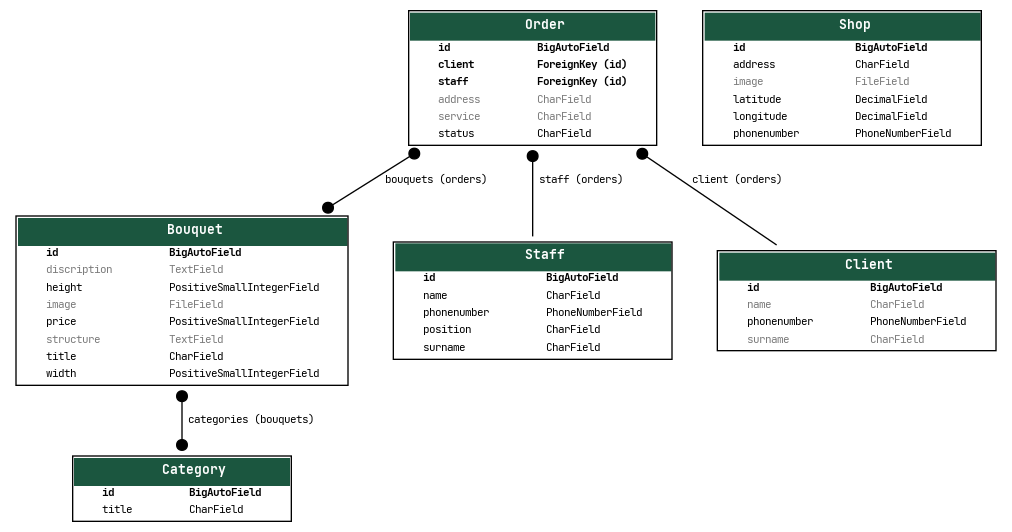
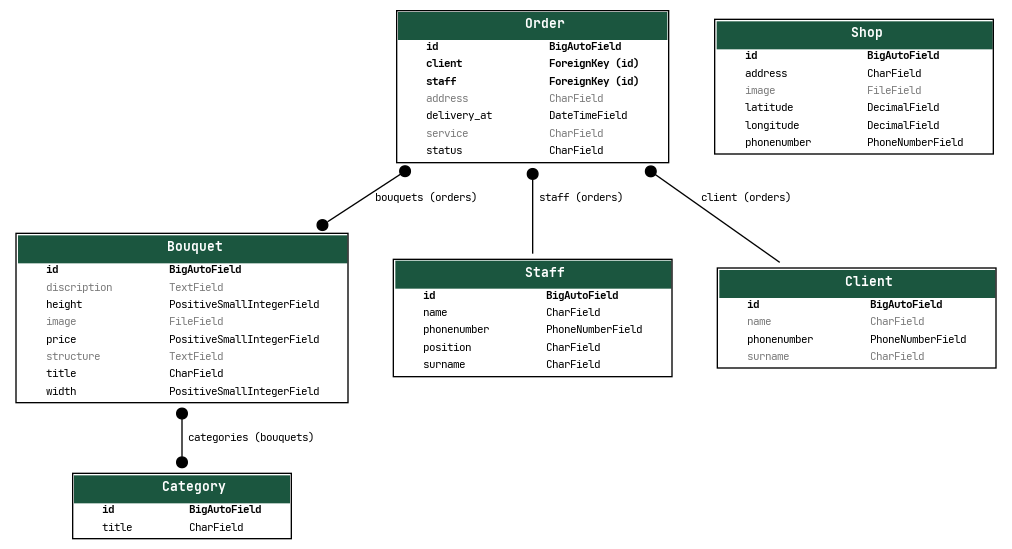
Updated models

diff --git a/flower_order/models.py b/flower_order/models.py
@@ -1,5 +1,6 @@
 from django.db import models
 from django.core.validators import FileExtensionValidator
+from django.utils import timezone
 from phonenumber_field.modelfields import PhoneNumberField
 
 
@@ -40,7 +41,7 @@ class Bouquet(models.Model):
         blank=True,
         null=True,
         upload_to='images/bouquets',
-        validators=[FileExtensionValidator(['png', 'jpeg', 'svg'])],
+        validators=[FileExtensionValidator(['png', 'jpg', 'jpeg', 'svg'])],
     )
     discription = models.TextField(
         verbose_name='Описание',
@@ -87,7 +88,7 @@ class Shop(models.Model):
         blank=True,
         null=True,
         upload_to='images/shops',
-        validators=[FileExtensionValidator(['png', 'jpeg', 'svg'])],
+        validators=[FileExtensionValidator(['png', 'jpg', 'jpeg', 'svg'])],
     )
     latitude = models.DecimalField(
         verbose_name='Широта',
@@ -216,6 +217,10 @@ class Order(models.Model):
         blank=True,
         max_length=200,
         null=True,
+    )
+    delivery_at = models.DateTimeField(
+        verbose_name='Когда доставить',
+        default=timezone.now() + timezone.timedelta(1)
     )
     bouquets = models.ManyToManyField(
         Bouquet,

diff --git a/flower_order/migrations/0002_order_delivery_at_alter_bouquet_image_and_more.py b/flower_order/migrations/0002_order_delivery_at_alter_bouquet_image_and_more.py
@@ -1,0 +1,30 @@
+# Generated by Django 4.1.5 on 2023-01-18 18:23
+
+import datetime
+import django.core.validators
+from django.db import migrations, models
+
+
+class Migration(migrations.Migration):
+
+    dependencies = [
+        ('flower_order', '0001_initial'),
+    ]
+
+    operations = [
+        migrations.AddField(
+            model_name='order',
+            name='delivery_at',
+            field=models.DateTimeField(default=datetime.datetime(2023, 1, 19, 18, 23, 55, 454969, tzinfo=datetime.timezone.utc), verbose_name='Когда доставить'),
+        ),
+        migrations.AlterField(
+            model_name='bouquet',
+            name='image',
+            field=models.FileField(blank=True, null=True, upload_to='images/bouquets', validators=[django.core.validators.FileExtensionValidator(['png', 'jpg', 'jpeg', 'svg'])], verbose_name='Изображение'),
+        ),
+        migrations.AlterField(
+            model_name='shop',
+            name='image',
+            field=models.FileField(blank=True, null=True, upload_to='images/shops', validators=[django.core.validators.FileExtensionValidator(['png', 'jpg', 'jpeg', 'svg'])], verbose_name='Изображение'),
+        ),
+    ]
